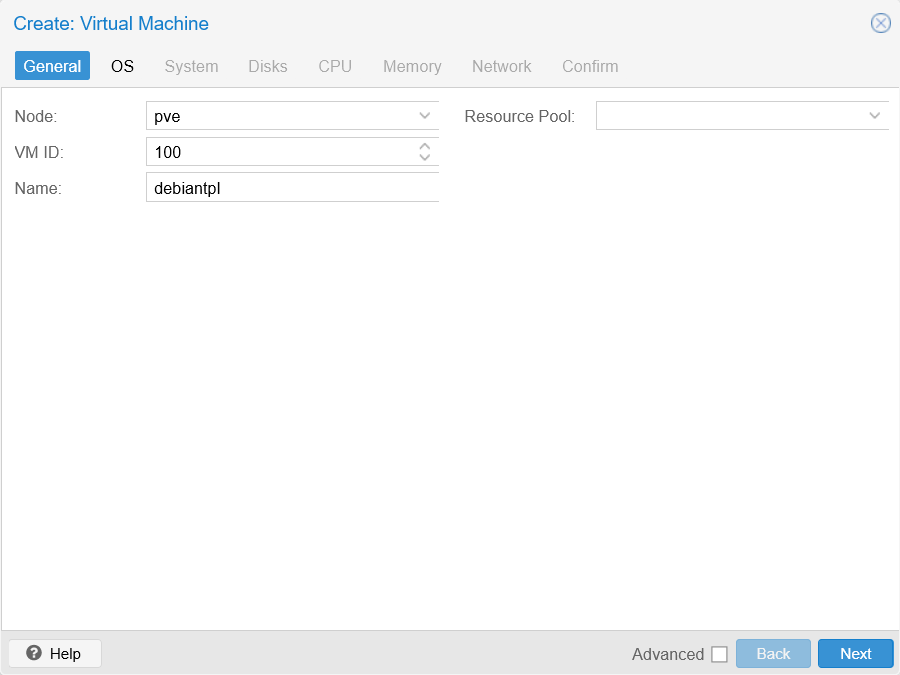
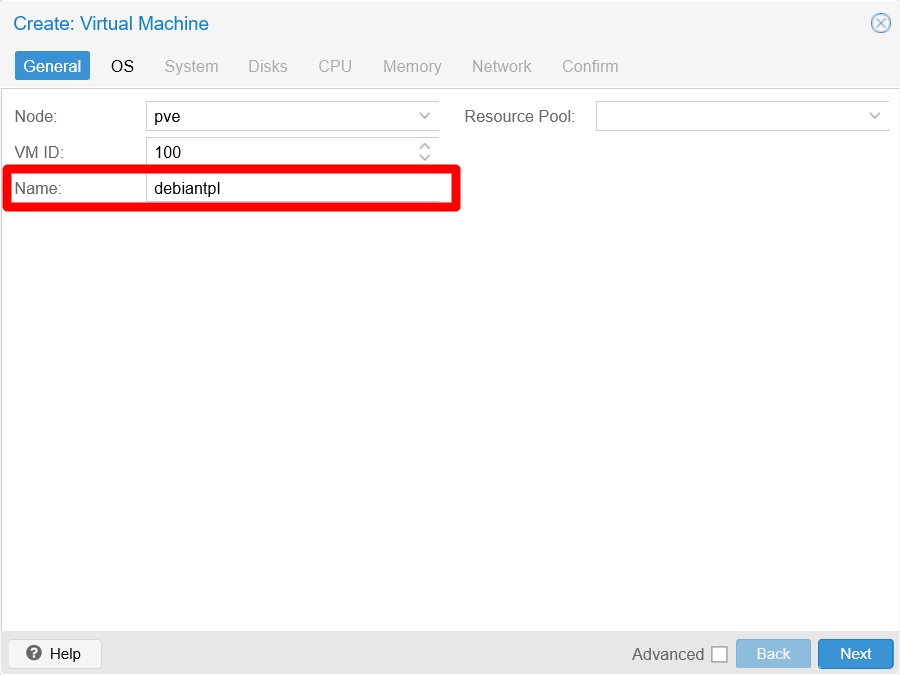
V2. G020. G021. Redone refresh to newer software versions (#65)
## Another update of chapters G020 and G021

This update makes some corrections to the G020 chapter and an addition to the G021 chapter:

- In the chapter G020, changes the partition scheme chosen in the installation procedure to the default simple one. Then the snapshots and the affected steps are also adapted to this change.
- In the chapter G021, adds a procedure to remove the microcode package that the installer autoinstalls in the VM.
- Also makes some minor corrections in both chapters

Pull request: V2. G020. G021. Redone refresh to newer software versions
## Another update of chapters G020 and G021

This update makes some corrections to the G020 chapter and an addition to the G021 chapter:

- In the chapter G020, changes the partition scheme chosen in the installation procedure to the default simple one. Then the snapshots and the affected steps are also adapted to this change.
- In the chapter G021, adds a procedure to remove the microcode package that the installer autoinstalls in the VM.
- Also makes some minor corrections in both chapters

Changed region(s): [[0.0, 0.2178, 0.5289, 0.3111]]

diff --git a/G020 - K3s cluster setup 03 ~ Debian VM creation.md b/G020 - K3s cluster setup 03 ~ Debian VM creation.md
@@ -138,7 +138,7 @@ First, you need to create and configure a new VM:
 
     The QEMU agent _"lets Proxmox VE know that it can use its features to show some more information, and complete some actions (for example, shutdown or snapshots) more intelligently"_.
 
-5. Hit on `Next` to reach the `Disks` tab:
+5. Hit on `Next` to advance to the `Disks` tab:
 
     ![Disks tab unfilled at Create VM window](images/g020/debian_vm_create_vm_disk_unfilled.webp "Disks tab unfilled at Create VM window")
 
@@ -152,7 +152,7 @@ First, you need to create and configure a new VM:
     From the many parameters showing now in this form, just pay attention to the following ones:
 
     - `Storage`\
-      Here you must choose on which storage you will place the disk image of this VM. At this point, in the list you'll only see the thinpools you created in the [**G019** chapter](G019%20-%20K3s%20cluster%20setup%2002%20~%20Storage%20setup.md).
+      Here you must choose on which storage you will place the disk image of this VM. At this point, in the list you'll only see the thinpools you created in the [chapter **G019**](G019%20-%20K3s%20cluster%20setup%2002%20~%20Storage%20setup.md).
 
     - `Disk size (GiB)`\
       How big you want the main disk for this VM, [in gibibytes](https://en.wikipedia.org/wiki/Gigabyte#Base_2_(binary)).
@@ -248,7 +248,7 @@ First, you need to create and configure a new VM:
 
     ![CPU tab filled at Create VM window](images/g020/debian_vm_create_vm_cpu_filled.webp "CPU tab filled at Create VM window")
 
-7. The next tab is `Memory`, also with advanced parameters shown:
+7. The next tab is `Memory`, with its advanced parameters already shown:
 
     ![Memory tab unfilled at Create VM window](images/g020/debian_vm_create_vm_memory_unfilled.webp "Memory tab unfilled at Create VM window")
 
@@ -270,7 +270,7 @@ First, you need to create and configure a new VM:
 
     ![Network tab default at Create VM window](images/g020/debian_vm_create_vm_network_unfilled.webp "Network tab default at Create VM window")
 
-    Notice how the `Bridge` parameter is set by default with the `vmbr0` Linux bridge. You will come back to this parameter later but, for now, you don't need to configure anything in this step, the default values are correct for this Debian template VM.
+    Notice how the `Bridge` parameter is set by default with the `vmbr0` Linux bridge. You will come back to this parameter later but, for now, you do not need to configure anything in this step, the default values are correct for this Debian template VM.
 
 9. The last tab you'll reach is `Confirm`:
 
@@ -342,7 +342,7 @@ In the VM creation wizard, Proxmox VE does not allow you to configure more than 
 
 At this point, your Debian template VM has the minimal virtual hardware setup you need for installing Debian in it.
 
-1. Go back to the `Summary` tab of your new VM and press the `Start` button to start the VM up:
+1. Go back to the `Summary` tab of your new VM so you can see its status and performance statistics, then press the `Start` button to start the VM up:
 
     ![VM Start button](images/g020/debian_vm_install_os_start_button.webp "VM Start button")
 
@@ -376,7 +376,7 @@ At this point, your Debian template VM has the minimal virtual hardware setup yo
 
     Oddly enough, it only offers the options shown in the screenshot above. In case of doubt, just stick with the default `United States - en_US.UTF-8` option.
 
-7. Next, you'll have to choose the keyboard configuration that suits you better:
+7. Next, you'll have to choose your preferred keyboard configuration:
 
     ![Configuring the keyboard](images/g020/debian_vm_install_os_installer_configuring_keyboard.webp "Configuring the keyboard")
 
@@ -444,7 +444,7 @@ At this point, your Debian template VM has the minimal virtual hardware setup yo
 
     ![Choosing timezone](images/g020/debian_vm_install_os_installer_choosing_timezone.webp "Choosing timezone")
 
-20. After a few more loading bars, you'll reach the step for disk partitioning:
+20. After a few more loading bars, you'll advance to the step for disk partitioning:
 
     ![Disk partitioning options screen](images/g020/debian_vm_install_os_installer_disk_partitioning.webp "Disk partitioning options screen")
 
@@ -462,9 +462,7 @@ At this point, your Debian template VM has the minimal virtual hardware setup yo
 
     ![Choosing the partition schema to apply on the VM storage](images/g020/debian_vm_install_os_installer_disk_partitioning_schema_setup.webp "Choosing the partition schema to apply on the VM storage")
 
-    This VM is going to be a template for servers, so you shouldn't ever need to mount a separate partition for the `home` directory. Something else could be said about the `var`. `srv` directories and swap, which they can grow notably. Therefore, better chose the option meant for servers, the third option specifying `Separate /var and /srv, swap < 1GB (for servers)`:
-
-    ![Picking the option for servers as partition schema](images/g020/debian_vm_install_os_installer_disk_partitioning_schema_for_servers.webp "Picking the option for servers as partition schema")
+    This VM is going to be a template for servers, so you shouldn't ever need to mount a separate partition for the `home` directory. Something else could be said about directories like `var` or `srv`, or even the swap, whose contents can potentially grow notably. But, since you can increase the size of the VM's storage easily from Proxmox VE, just leave the default highlighted option and press `Enter`.
 
 23. The next screen is the confirmation of the disk partitioning you've setup in the previous steps:
 
@@ -484,17 +482,17 @@ At this point, your Debian template VM has the minimal virtual hardware setup yo
 
     Choose `Yes` to allow the installer to finally write the changes to disk.
 
-26. After the partitioning is finished, you'll reach the progress bar of the base system installation:
+26. After the partitioning is finished, you'll see the progress bar for the base system installation:
 
     ![Installing the base system screen](images/g020/debian_vm_install_os_installer_base_system_installation.webp "Installing the base system screen")
 
     The Debian installer will need a bit of time to finish this task.
 
-27. When the base system is installed, you'll see the following dialog:
+27. When the base system is installed, the following dialog appears:
 
     ![Additional media scan dialog](images/g020/debian_vm_install_os_installer_additional_media.webp "Additional media scan dialog")
 
-    You do not have any additional media to use, so just answer `No` to this dialog.
+    Since you do not have any additional media to use, just answer `No` to this dialog.
 
 28. The following step is about setting the right mirror servers location for your `apt` configuration:
 
@@ -522,19 +520,21 @@ At this point, your Debian template VM has the minimal virtual hardware setup yo
 
     ![Popularity contest question screen](images/g020/debian_vm_install_os_installer_package_manager_popularity_contest.webp "Popularity contest question screen")
 
-    Choose whatever you like here, although bear in mind that the security restrictions that you'll have to apply later to this Debian VM system may end blocking that script's functionality.
+    Choose whatever you like here, although bear in mind that the security restrictions you'll have to apply in a later chapter to this Debian VM system may end blocking that script's functionality.
 
 33. After another loading bar, you'll reach the `Software selection` screen:
 
     ![Software selection screen](images/g020/debian_vm_install_os_installer_software_selection.webp "Software selection screen")
 
-    Notice that the installer has "deduced" (probably because of the "for servers" partition schema chosen in the previous step 22) that the VM is going to be a server. The installer has  already chosen the only two options that must be enabled here: `SSH server` and `standard system utilities`. This allows you to press `Continue` directly without changing anything.
+    You'll see that, by default, the installer is setting the VM to be a graphical environment. Since your VM is going to be the basic template for server VMs, you only need enabled the two last options (`SSH server` and `standard system utilities`). Change the options here to make them look like below and then press `Continue`.
 
-34. Another progress windows will show up and the installer will proceed with the remainder of the installation process:
+    ![Software selection changed to enable minimum server options](images/g020/debian_vm_install_os_installer_software_selection_changed.webp "Software selection changed to enable minimum server options")
+
+34. Another progress windows will show up and the installer will proceed with the remainder of the software installation process:
 
     ![Installation progress bar](images/g020/debian_vm_install_os_installer_executing_installation.webp "Installation progress bar")
 
-35. Within the installation process, the installer will ask you if you want to install the GRUB boot loader in the VM's primary storage drive:
+35. After finishing the software installation, the installer will ask you if you want to install the GRUB boot loader in the VM's primary storage drive:
 
     ![GRUB boot loader installation screen](images/g020/debian_vm_install_os_installer_grub_boot_loader.webp "GRUB boot loader installation screen")
 
@@ -548,23 +548,23 @@ At this point, your Debian template VM has the minimal virtual hardware setup yo
 
     ![GRUB boot loader disk sda chosen](images/g020/debian_vm_install_os_installer_grub_boot_loader_disk_sda_chosen.webp "GRUB boot loader disk sda chosen")
 
-37. After installing the GRUB boot loader, the installer will perform some remaining tasks like installing GRUB:
+37. After configuring the GRUB boot loader, the installer will perform the necessary tasks to finish the Debian installation:
 
     ![Finishing the installation screen](images/g020/debian_vm_install_os_installer_finishing_installation.webp "Finishing the installation screen")
 
 38. After the installation has finished, the installer will warn you about removing the media you used to launch the whole procedure:
 
-    ![Remove installer media screen](images/g020/debian_vm_install_os_installer_remove_media.webp "Remove installer media screen")
-
     > [!WARNING]
-    > **Keep calm, _DO NOT_ press `Enter` yet and read the following steps**\
+    > **Keep calm, _DO NOT_ press `Enter` yet and read the next steps**\
     > If you `Continue`, the VM will reboot and, if the installer media is still in place, the installer will boot up again.
 
-39. Go back to your Proxmox VE web console, and open the `Hardware` tab of your VM. Then, choose the `CD/DVD Drive` item and press the `Edit` button:
+    ![Remove installer media screen](images/g020/debian_vm_install_os_installer_remove_media.webp "Remove installer media screen")
+
+39. Go back to your Proxmox VE web console, and open the `Hardware` tab of your VM. Then, choose the `CD/DVD Drive` item and press the `Edit` button (or just double click on the item):
 
     ![Edit button on VM's hardware tab](images/g020/debian_vm_install_os_vm_hardware_tab_edit_button.webp "Edit button on VM's hardware tab")
 
-40. You'll see the Edit window for the `CD/DVD Drive` you chose:
+40. You'll see the `Edit` window for the `CD/DVD Drive` you chose:
 
     ![Edit window for CD/DVD Drive](images/g020/debian_vm_install_os_vm_hardware_tab_edit_window.webp "Edit window for CD/DVD Drive")
 

diff --git a/G021 - K3s cluster setup 04 ~ Debian VM configuration.md b/G021 - K3s cluster setup 04 ~ Debian VM configuration.md
@@ -25,6 +25,7 @@
 - [Reboot the VM](#reboot-the-vm)
 - [Disabling transparent hugepages on the VM](#disabling-transparent-hugepages-on-the-vm)
 - [Regarding the microcode `apt` packages for CPU vulnerabilities](#regarding-the-microcode-apt-packages-for-cpu-vulnerabilities)
+  - [The Debian installer has installed the microcode package](#the-debian-installer-has-installed-the-microcode-package)
 - [Relevant system paths](#relevant-system-paths)
   - [Directories on Debian VM](#directories-on-debian-vm)
   - [Files on Debian VM](#files-on-debian-vm)
@@ -37,7 +38,7 @@
 
 ## You have to configure your new Debian VM
 
-Now you have a functional Debian VM but, as you did with your Proxmox VE host, it needs to be configured. This chapter will show you most of the same setup procedures detailed between the [**G003**](G003%20-%20Host%20configuration%2001%20~%20Apt%20sources%2C%20updates%20and%20extra%20tools.md) and [**G016**](G016%20-%20Host%20optimization%2002%20~%20Disabling%20the%20transparent%20hugepages.md) chapters, but in an condensed manner. It will also add some extra steps needed for setting up particular aspects on this VM.
+Now you have a functional Debian VM but, as you did with your Proxmox VE host, it needs to be configured. This chapter will show you most of the same setup procedures detailed in the chapters between [**G003**](G003%20-%20Host%20configuration%2001%20~%20Apt%20sources%2C%20updates%20and%20extra%20tools.md) and [**G016**](G016%20-%20Host%20optimization%2002%20~%20Disabling%20the%20transparent%20hugepages.md), but in an condensed manner. It will also add some extra steps needed for setting up particular aspects on this VM.
 
 ## Suggestion about the IP organization within your LAN
 
@@ -130,7 +131,7 @@ Another important detail to take into account is the configuration of this QEMU 
 - `/usr/sbin/qemu-ga`
   The path to the agent program itself. Probably for security reason, it is setup in such a way that you will not be able to execute it like a regular command.
 
-If you want to know what concrete configuration the QEMU agent in your VM has:
+If you want to know what is the concrete configuration of the QEMU agent running in your VM:
 
 1. As `root`, cd to `/usr/sbin`:
 
@@ -163,7 +164,7 @@ If you want to know what concrete configuration the QEMU agent in your VM has:
 
 ## Hardening the VM's access
 
-The user you created in the Debian installation process, which in this guide is called `mgrsys`, needs its login to be hardened with TFA and a SSH key pair, while also enabling it to use the `sudo` command. This way, that user will become a proper administrative user for your system. On the other hand, after properly setting up that user, you won't really need to use `root` any more. So, in this section you'll also see how to completely disable the `root` login access to the VM.
+The user you created in the Debian installation process, which in this guide is called `mgrsys`, needs its login to be hardened with TFA and a SSH key pair, while also enabling it to use the `sudo` command. This way, that user will become a proper administrative user for your system. On the other hand, after properly setting up that user, you won't really need to use `root` any more in this VM. This section explains how to completely disable the `root` login access to the VM.
 
 ### Enabling `sudo` to the administrative user
 
@@ -177,7 +178,7 @@ The user you created in the Debian installation process, which in this guide is 
     > **You will not be able to execute the `adduser` command from a SSH shell with `mgrsys`**\
     > I does not matter if you become `root` with `su` as you've just done in the previous section. You must be root within a **noVNC** shell or the `adduser` command won't work.
 
-2. Now login as the `mgrsys` user with a regular SSH shell and test that `sudo` is working with a harmless command like `ls`:
+2. Now login as the `mgrsys` user with a regular SSH shell, then test that `sudo` is working with a harmless command like `ls`:
 
     ~~~sh
     $ sudo ls -al
@@ -275,7 +276,7 @@ $ cd /etc/ssh ; sudo cp sshd_config sshd_config.orig
 
 ### Changes to the `/etc/pam.d/sshd` file
 
-1. Comment out the `@include common-auth` line found at at its top:
+1. Comment out the first `@include common-auth` line found at at its top:
 
     ~~~sh
     # Standard Un*x authentication.
@@ -506,14 +507,14 @@ Now that your Debian VM has an administrative `sudo` user like `mgrsys` and a ha
     A user with the password locked cannot login at all. The `passwd -l` command corrupts, by putting a `!` character, the `root` password hash stored in the `/etc/shadow` file.
 
     ~~~sh
-    root:!$7$HVw1KYN.qAC.lOMC$zb3vRm1oqqdR.gITdV.Lce9XuTjkv7CZ2z4R7diVsduplK.cAGeByZc1Gk3wfhQA6pzuzls3VT9/GhcjehiX70:18739:0:99999:7:::
+    root:!$7$HVw1KYN.qAC.lOMC$zb3vRm1oqqdR.gITdV.Lce9XuTjkv7CZ2z4R7diVsduplK.cAGeByZc1Gk3wfhQA6pzuzls3VT9/GhcjehiX70:20336:0:99999:7:::
     ~~~
 
 To check that you cannot login with the `root` user, open a noVNC terminal on the VM from the web console and try to login as `root`. You'll get a `Login incorrect` message back every time you try.
 
 ## Configuring the VM with `sysctl`
 
-Next thing to do is to harden and improve the configuration of the VM with `sysctl` settings, as you did in the [**G012**](G012%20-%20Host%20hardening%2006%20~%20Network%20hardening%20with%20sysctl.md) and [**G015**](G015%20-%20Host%20optimization%2001%20~%20Adjustments%20through%20sysctl.md) chapters for your Proxmox VE host. Since your VM is also running a Debian system, the `sysctl` values applied here will be mostly the same as the ones applied to your PVE node.
+Next thing to do is to harden and improve the configuration of the VM with `sysctl` settings, as you did in the chapters [**G012**](G012%20-%20Host%20hardening%2006%20~%20Network%20hardening%20with%20sysctl.md) and [**G015**](G015%20-%20Host%20optimization%2001%20~%20Adjustments%20through%20sysctl.md) for your Proxmox VE host. Since your VM is also running a Debian system, the `sysctl` values applied here will be mostly the same as the ones applied to your PVE node.
 
 > [!NOTE]
 > **This `sysctl` configuration is kind of generic but oriented to support virtualization and containers, as the Proxmox VE platform does**\
@@ -944,7 +945,31 @@ Back in the [**G016** chapter](G016%20-%20Host%20optimization%2002%20~%20Disabli
 
 ## Regarding the microcode `apt` packages for CPU vulnerabilities
 
-In the [chapter **G013**](G013%20-%20Host%20hardening%2007%20~%20Mitigating%20CPU%20vulnerabilities.md), you applied a microcode package to mitigate vulnerabilities found within your host's CPU. You could think that you also need to apply such package in the VM, but installing it in a VM is useless, since the hypervisor won't allow the VM to apply such microcode to the real CPU installed in your Proxmox VE host. In short, do not worry about installing CPU microcode packages in VMs.
+In the [chapter **G013**](G013%20-%20Host%20hardening%2007%20~%20Mitigating%20CPU%20vulnerabilities.md), you applied a microcode package to mitigate vulnerabilities found within your host's CPU. You could think that you also need to apply such package in the VM, but installing it in a VM is useless, since the hypervisor won't allow the VM to apply such microcode to the real CPU installed in your Proxmox VE host. In short, never install CPU microcode packages in VMs.
+
+### The Debian installer has installed the microcode package
+
+While monitoring the installation of the Debian VM, I noticed that the installer installs the microcode package. This is certainly incorrect, so you should uninstall it as follows:
+
+1. Purge the microcode package with `apt`:
+
+    ~~~sh
+    $ sudo apt -y purge intel-microcode
+    ~~~
+
+    Replace `intel-microcode` for `amd-microcode` if your microcode package is the one for AMD CPUs.
+
+2. To autoremove any related packages to the purged microcode one that are no longer required in your Debian VM, use `apt` again:
+
+    ~~~sh
+    $ sudo apt -y autoremove
+    ~~~
+
+3. Reboot the VM:
+
+    ~~~sh
+    $ sudo reboot
+    ~~~
 
 ## Relevant system paths
 